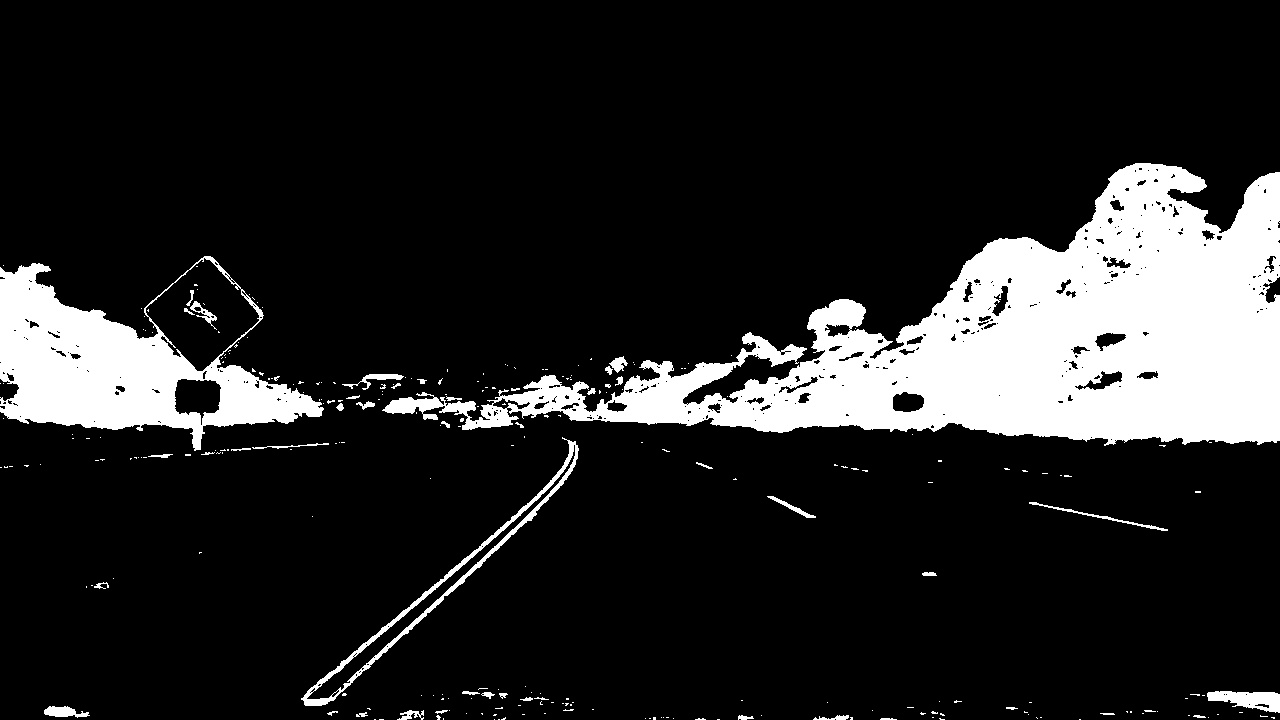
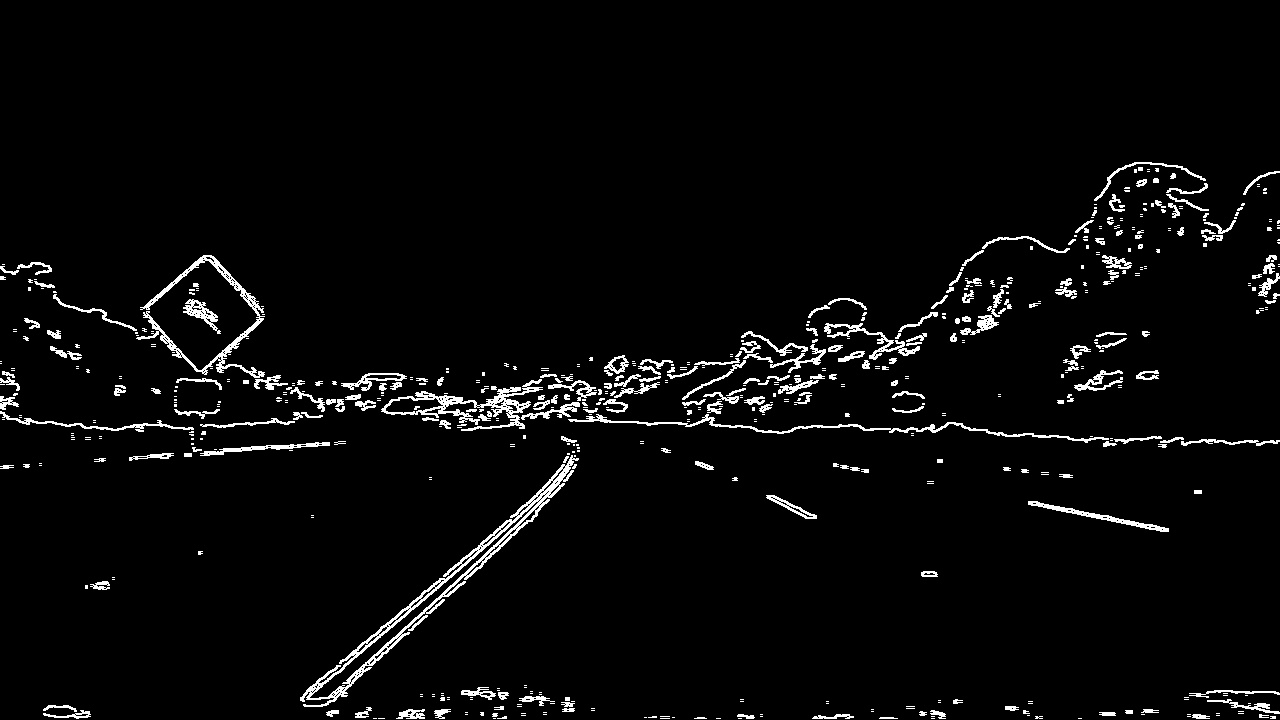
Added edge detection via sobel

diff --git a/main.py b/main.py
@@ -67,18 +67,24 @@ class Pipeline:
             dist_coeffs,
             image_saver,
             yellow_lane_hsv_range,
-            white_lane_hsv_range
+            white_lane_hsv_range,
+            ksize,
+            gradient_x_threshold,
+            gradient_y_threshold,
+            gradient_magnitude_threshold,
+            gradient_direction_threshold=(0, np.pi / 4)
     ) -> None:
+        self.__ksize = ksize
+        self.__gradient_x_threshold = gradient_x_threshold
+        self.__gradient_y_threshold = gradient_y_threshold
+        self.__gradient_magnitude_threshold = gradient_magnitude_threshold
+        self.__gradient_direction_threshold = gradient_direction_threshold
         self.__white_lane_hsv_range = white_lane_hsv_range
         self.__yellow_lane_hsv_range = yellow_lane_hsv_range
         self.__image_saver = image_saver
         self.__camera_matrix = camera_matrix
         self.__dist_coeffs = dist_coeffs
         self.current_filename = None
-
-    # TODO get binary image
-    # Color threshold
-    # canny
 
     # TODO Perspective transform
 
@@ -119,11 +125,78 @@ class Pipeline:
             white_mask,
             yellow_mask
         )
+        self.__image_saver.save('color', self.current_filename, image)
 
-        image = cv2.Canny(image)
+        # Define a function that takes an image, gradient orientation,
+        # and threshold min / max values.
+        def abs_sobel_thresh(img, orient='x', thresh=None, sobel_kernel=None):
+            thresh_min = thresh[0]
+            thresh_max = thresh[1]
+            # Convert to grayscale
+            gray = img
+            # Apply x or y gradient with the OpenCV Sobel() function
+            # and take the absolute value
+            if orient == 'x':
+                abs_sobel = np.absolute(cv2.Sobel(gray, cv2.CV_64F, 1, 0, ksize=sobel_kernel))
+            elif orient == 'y':
+                abs_sobel = np.absolute(cv2.Sobel(gray, cv2.CV_64F, 0, 1, ksize=sobel_kernel))
+            else:
+                raise Exception('Invalid `orient`')
+            # Rescale back to 8 bit integer
+            scaled_sobel = np.uint8(255 * abs_sobel / np.max(abs_sobel))
+            # Create a copy and apply the threshold
+            binary_output = np.zeros_like(scaled_sobel)
+            # Here I'm using inclusive (>=, <=) thresholds, but exclusive is ok too
+            binary_output[(scaled_sobel >= thresh_min) & (scaled_sobel <= thresh_max)] = 1
 
+            # Return the result
+            return binary_output
 
-        self.__image_saver.save('binary', self.current_filename, image)
+        # Define a function to return the magnitude of the gradient
+        # for a given sobel kernel size and threshold values
+        def mag_thresh(img, sobel_kernel=3, mag_thresh=(0, 255)):
+            # Convert to grayscale
+            gray = img
+            # Take both Sobel x and y gradients
+            sobelx = cv2.Sobel(gray, cv2.CV_64F, 1, 0, ksize=sobel_kernel)
+            sobely = cv2.Sobel(gray, cv2.CV_64F, 0, 1, ksize=sobel_kernel)
+            # Calculate the gradient magnitude
+            gradmag = np.sqrt(sobelx ** 2 + sobely ** 2)
+            # Rescale to 8 bit
+            scale_factor = np.max(gradmag) / 255
+            gradmag = (gradmag / scale_factor).astype(np.uint8)
+            # Create a binary image of ones where threshold is met, zeros otherwise
+            binary_output = np.zeros_like(gradmag)
+            binary_output[(gradmag >= mag_thresh[0]) & (gradmag <= mag_thresh[1])] = 1
+
+            # Return the binary image
+            return binary_output
+
+        def dir_threshold(image, sobel_kernel=3, thresh=(0, np.pi / 2)):
+            # Grayscale
+            # Calculate the x and y gradients
+            gray = image
+            sobelx = cv2.Sobel(gray, cv2.CV_64F, 1, 0, ksize=sobel_kernel)
+            sobely = cv2.Sobel(gray, cv2.CV_64F, 0, 1, ksize=sobel_kernel)
+            # Take the absolute value of the gradient direction,
+            # apply a threshold, and create a binary image result
+            absgraddir = np.arctan2(np.absolute(sobely), np.absolute(sobelx))
+            binary_output = np.zeros_like(absgraddir)
+            binary_output[(absgraddir >= thresh[0]) & (absgraddir <= thresh[1])] = 1
+
+            # Return the binary image
+            return binary_output
+
+        # Apply each of the thresholding functions
+        gradx = abs_sobel_thresh(image, orient='x', sobel_kernel=self.__ksize, thresh=self.__gradient_x_threshold)
+        grady = abs_sobel_thresh(image, orient='y', sobel_kernel=self.__ksize, thresh=self.__gradient_y_threshold)
+        mag_binary = mag_thresh(image, sobel_kernel=self.__ksize, mag_thresh=self.__gradient_magnitude_threshold)
+        dir_binary = dir_threshold(image, sobel_kernel=self.__ksize, thresh=self.__gradient_direction_threshold)
+
+        combined = np.zeros_like(dir_binary)
+        combined[((gradx == 0) & (grady == 0)) | ((mag_binary == 0) & (dir_binary == 0))] = 255
+
+        self.__image_saver.save('binary', self.current_filename, combined)
 
         return image
 
@@ -170,7 +243,12 @@ def main():
         white_lane_hsv_range=(
             white_lower_bound,
             white_upper_bound
-        )
+        ),
+        ksize=3,
+        gradient_x_threshold=(0, 50),
+        gradient_y_threshold=(0, 50),
+        gradient_magnitude_threshold=(0, 50),
+        gradient_direction_threshold=(0, np.pi/4)
     )
     test_images = glob.glob('./test_images/*.jpg')
 
